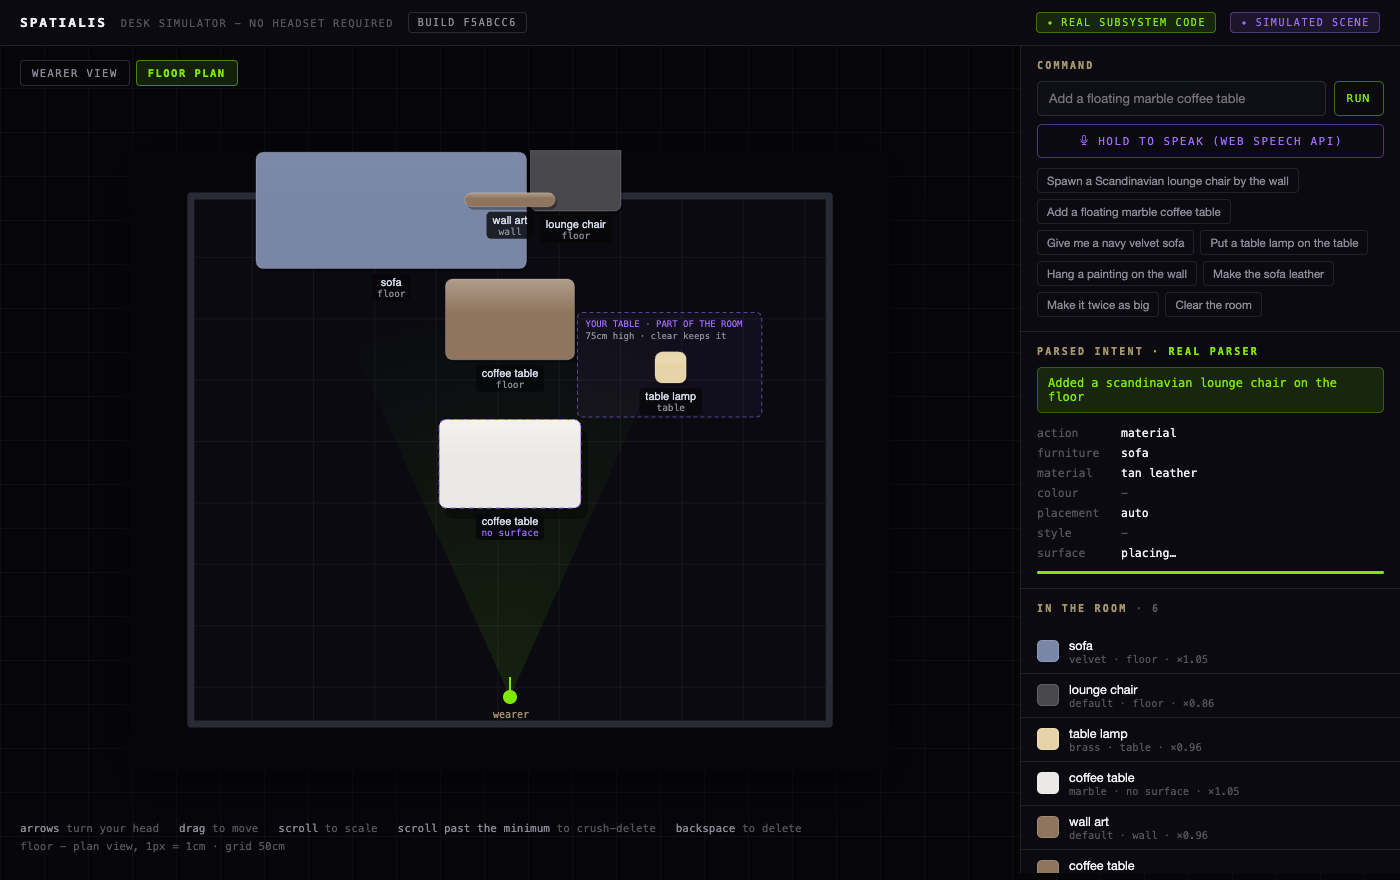
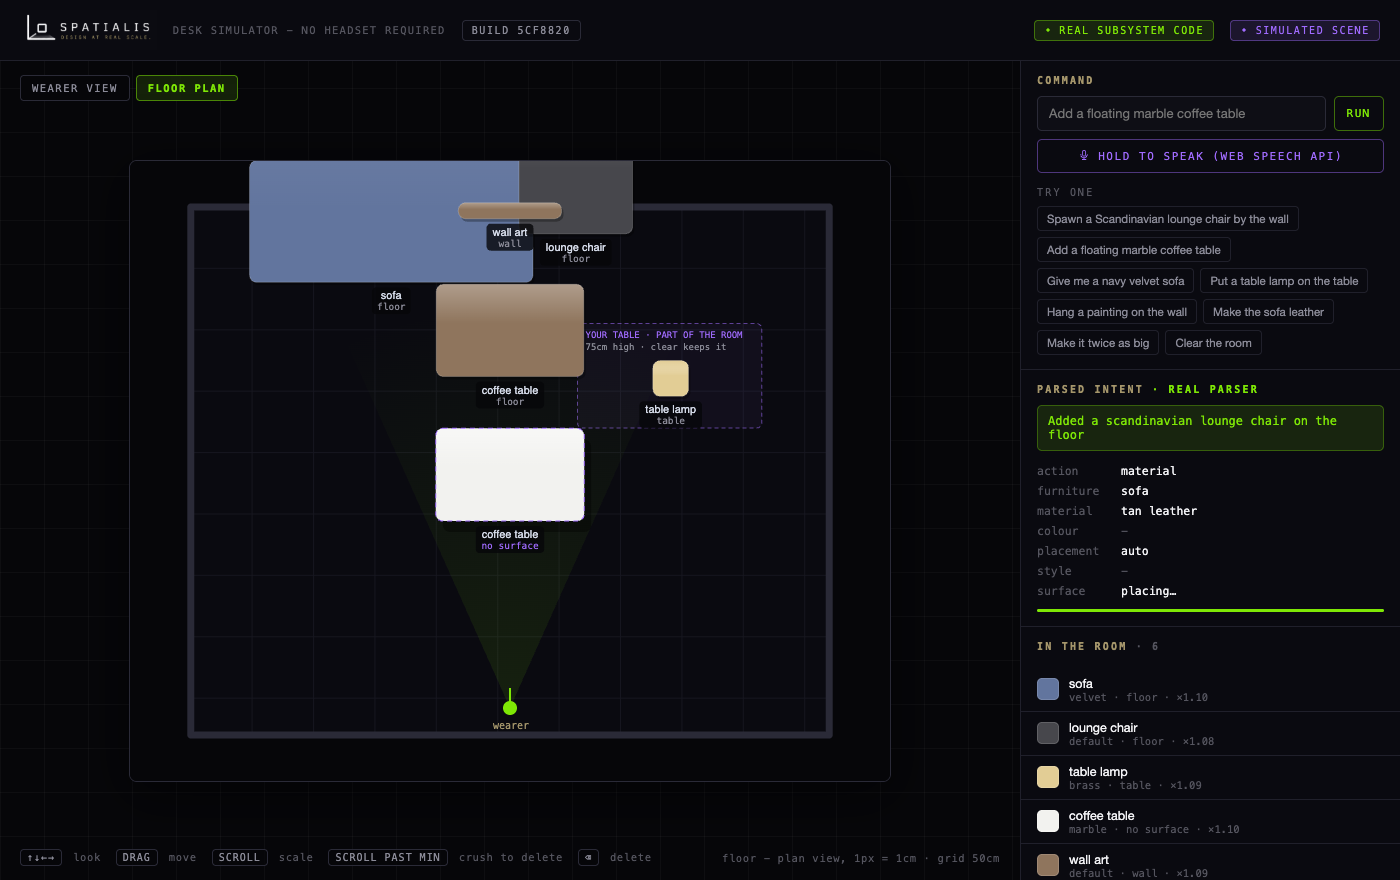
feat(app): a more deliberate arrangement of the simulator page
The 1.4:1 viewport stands in for the Spectacles display, so it now reads
as a framed viewport - hairline border - rather than a canvas floating on
the grid. The controls overlay is one keycap row with the eye height at
the right; the file path is gone. The header logo is legible and the page
is a flex column so the bar can grow without breaking the grid. Example
sentences are labelled. The legend is three short lines a visitor can
read, with the component-level account behind a disclosure so it no
longer runs off the panel. Screenshots regenerated.

diff --git a/Simulator/index.html b/Simulator/index.html
@@ -22,14 +22,16 @@
   }
   * { box-sizing: border-box; }
   html, body { height: 100%; }
+  html, body { height: 100%; }
   body {
+    display: flex; flex-direction: column;
     margin: 0; background: var(--bg); color: var(--ink);
     background-image: linear-gradient(var(--grid) 1px, transparent 1px), linear-gradient(90deg, var(--grid) 1px, transparent 1px);
     background-size: 44px 44px;
     font-family: var(--sans); font-size: 14px; overflow: hidden;
   }
   ::selection { background: var(--accent-dim); color: var(--accent); }
-  .logo { display: block; height: 30px; width: auto; mix-blend-mode: screen; }
+  .logo { display: block; height: 40px; width: auto; mix-blend-mode: screen; }
   .logo.sm { height: 24px; }
   /* ---------- icon set: monoline, current colour ---------- */
   .ico{width:1em;height:1em;display:inline-block;vertical-align:-.14em;fill:none;stroke:currentColor;stroke-width:1.7;stroke-linecap:round;stroke-linejoin:round;flex:none}
@@ -38,8 +40,8 @@
   .tag .ico { width: .8em; height: .8em; vertical-align: -.05em; }
   #loading .ico { width: 1.2em; height: 1.2em; margin-right: 6px; color: var(--warn); }
   header {
-    display: flex; align-items: center; gap: 14px;
-    padding: 12px 20px; border-bottom: 1px solid var(--line);
+    flex: none; display: flex; align-items: center; gap: 16px;
+    padding: 10px 20px; border-bottom: 1px solid var(--line);
     background: var(--panel);
   }
   header h1 { font-family: var(--mono); font-size: 13px; font-weight: 700; margin: 0; letter-spacing: .14em; text-transform: uppercase; }
@@ -55,11 +57,11 @@
   .tag.real { color: var(--real); border-color: rgba(126,231,5,.4); background: var(--accent-dim); }
   .tag.sim  { color: var(--sim);  border-color: rgba(160,107,255,.4); background: var(--violet-dim); }
 
-  main { display: grid; grid-template-columns: 1fr 380px; height: calc(100% - 53px); }
+  main { display: grid; grid-template-columns: 1fr 380px; flex: 1; min-height: 0; }
 
   /* ---- room ---- */
   #stage { position: relative; display: grid; place-items: center; overflow: hidden; }
-  canvas { display: block; border-radius: 10px; box-shadow: 0 12px 48px rgba(0,0,0,.55); cursor: crosshair; }
+  canvas { display: block; border-radius: 8px; border: 1px solid var(--line-2); box-shadow: 0 12px 48px rgba(0,0,0,.55); cursor: crosshair; }
   /* An author `display` beats the UA stylesheet's [hidden] rule, so the hidden
      canvas has to be switched off explicitly or both views stack. */
   canvas[hidden] { display: none !important; }
@@ -82,10 +84,16 @@
   #scene3d { border-radius: 10px; box-shadow: 0 12px 48px rgba(0,0,0,.55); cursor: grab; }
   #scene3d:active { cursor: grabbing; }
   #hud {
-    position: absolute; left: 20px; bottom: 16px;
-    font-family: var(--mono); font-size: 11px; color: var(--ink-faint);
-    pointer-events: none; line-height: 1.7;
+    position: absolute; left: 20px; right: 20px; bottom: 14px; z-index: 3;
+    display: flex; align-items: center; justify-content: space-between; gap: 16px;
+    font-family: var(--mono); font-size: 10.5px; letter-spacing: .06em; color: var(--ink-faint); pointer-events: none;
   }
+  #hud kbd {
+    display: inline-block; font: inherit; font-size: 10px; letter-spacing: .1em; text-transform: uppercase;
+    color: var(--ink-dim); border: 1px solid var(--line-2); border-radius: 4px; padding: 2px 6px; margin: 0 4px 0 8px;
+    background: rgba(6,6,9,.7);
+  }
+  #hud kbd:first-child { margin-left: 0; }
   #hud b { color: var(--ink-dim); font-weight: 500; }
 
   /* ---- panel ---- */
@@ -119,7 +127,8 @@
   button.mic.live { background: rgba(229,74,74,.12); border-color: rgba(229,74,74,.5); color: #f08c8c; }
   button:disabled { opacity: .4; cursor: not-allowed; }
 
-  .chips { display: flex; flex-wrap: wrap; gap: 6px; margin-top: 10px; }
+  .hint { font-family: var(--mono); font-size: 10px; letter-spacing: .22em; text-transform: uppercase; color: var(--ink-faint); margin-top: 14px; }
+  .chips { display: flex; flex-wrap: wrap; gap: 6px; margin-top: 8px; }
   .chip {
     font-size: 11.5px; padding: 5px 9px; border-radius: 4px;
     background: transparent; border: 1px solid var(--line);
@@ -160,7 +169,15 @@
     padding: 14px 16px 16px; border-top: 1px solid var(--line-soft);
     font-size: 11px; color: var(--ink-faint); line-height: 1.7;
   }
-  footer .k { display: inline-block; width: 9px; height: 9px; border-radius: 2px; margin-right: 5px; vertical-align: -1px; }
+  footer .k { display: inline-block; width: 9px; height: 9px; border-radius: 2px; margin-right: 6px; vertical-align: -1px; }
+  footer > div { margin-top: 4px; }
+  footer > div:first-child { margin-top: 0; }
+  footer b { color: var(--ink-dim); font-weight: 600; }
+  footer details { margin-top: 10px; }
+  footer summary { cursor: pointer; font-family: var(--mono); font-size: 10px; letter-spacing: .22em; text-transform: uppercase; color: var(--label); list-style: none; }
+  footer summary::before { content: '+ '; }
+  footer details[open] summary::before { content: '- '; }
+  footer details p { margin: 8px 0 0; }
 </style>
 </head>
 <body>
@@ -192,8 +209,8 @@
     <canvas id="scene3d" width="900" height="640"></canvas>
     <canvas id="room" width="760" height="620" hidden></canvas>
     <div id="hud">
-      <div id="hud-wearer"><b>arrows</b> turn your head &nbsp; <b>drag</b> to move &nbsp; <b>scroll</b> to scale &nbsp; <b>scroll past the minimum</b> to crush-delete &nbsp; <b>backspace</b> to delete</div>
-      <div id="hud-sub">camera at the wearer's eye, 155cm &nbsp;·&nbsp; real .glb from <code>Assets/Prefabs</code></div>
+      <div id="hud-wearer"><kbd>&uarr;&darr;&larr;&rarr;</kbd> look <kbd>drag</kbd> move <kbd>scroll</kbd> scale <kbd>scroll past min</kbd> crush to delete <kbd>&#9003;</kbd> delete</div>
+      <div id="hud-sub">wearer view &middot; eye height 155 cm</div>
     </div>
     <div id="loading">loading furniture…</div>
   </div>
@@ -206,6 +223,7 @@
         <button class="primary" id="run">Run</button>
       </div>
       <button class="mic" id="mic"><svg class="ico"><use href="#i-mic"/></svg> Hold to speak (Web Speech API)</button>
+      <div class="hint">Try one</div>
       <div class="chips" id="chips"></div>
     </div>
 
@@ -230,9 +248,14 @@
     <div id="objects"></div>
 
     <footer>
-      <div><span class="k" style="background:var(--real)"></span><code>VoiceCommandController</code>, <code>SurfaceAnchorEngine</code> and <code>PBRMaterialSwapper</code> run here as instances of the shipped <code>Scripts/*.ts</code> - parsing, placement, materials, spawn animation, debounce, feedback.</div>
-      <div style="margin-top:5px"><span class="k" style="background:var(--sim)"></span>Simulated: the room and its hit tests (World Query on device), head pose and mouse-as-pinch (headset and SIK hand tracking - <code>SpatialGestureController</code> does not run here), Web Speech for the ASR module, three.js for the display.</div>
-      <div style="margin-top:5px"><span class="k" style="border:1px dashed var(--sim);background:transparent"></span>The table is the room's own, standing in for a real table in your space. <em>Clear the room</em> removes only what you placed.</div>
+      <div><span class="k" style="background:var(--real)"></span><b>Real:</b> the shipped voice parser, anchor engine and material swapper run here unchanged.</div>
+      <div><span class="k" style="background:var(--sim)"></span><b>Simulated:</b> the room and its surfaces, head pose (arrow keys), pinch (mouse), speech (Web Speech), display (three.js).</div>
+      <div><span class="k" style="border:1px dashed var(--sim);background:transparent"></span>The table is the room's own. <em>Clear the room</em> removes only what you placed.</div>
+      <details>
+        <summary>What runs where</summary>
+        <p><code>VoiceCommandController</code>, <code>SurfaceAnchorEngine</code> and <code>PBRMaterialSwapper</code> run as instances of the shipped <code>Scripts/*.ts</code>: parsing, placement, materials, spawn animation, debounce, feedback.</p>
+        <p>Stand-ins for hardware: the room and its hit tests (World Query on device), head pose from the arrow keys (headset tracking), mouse drag and scroll as pinch and scale (Spectacles Interaction Kit hand tracking; <code>SpatialGestureController</code> does not run here and is covered by tests), Web Speech for the ASR module, three.js for the display.</p>
+      </details>
     </footer>
   </aside>
 </main>
